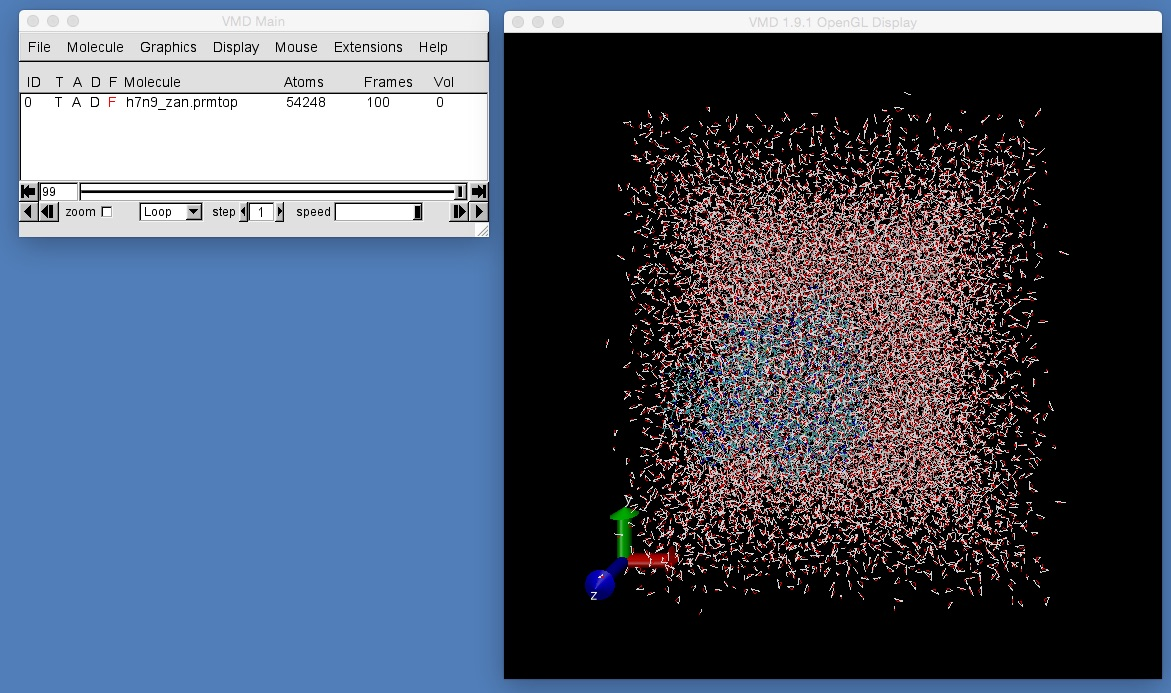
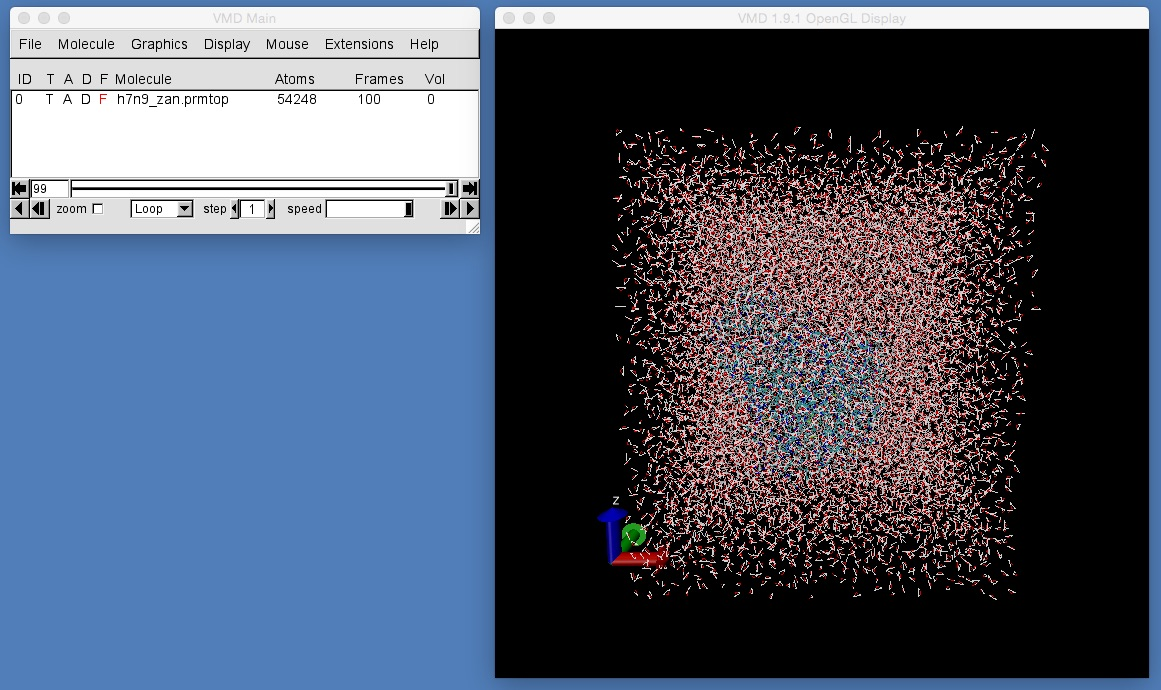
Working on pressure section and updated periodic box section to centre the protein

diff --git a/dynamics/dynamics/protein.md b/dynamics/dynamics/protein.md
@@ -32,7 +32,7 @@ You should see something like this;
 
 ![Image of water box](vmd_protein1.jpg)
 
-What you can see is zanamivir bound to neuraminidase, and all solvated in a box of water. If you rotate the view you will see that the protein is almost poking out from one side of the box, with some of its atoms appearing to be outside the box. This is not a cause for concern, but is instead an artefact of what is called "periodic boundary conditions". This box of water is actually what is known as a periodic box. This box is actually infinitely mirrored and reflected along the X, Y and Z dimensions, such that atoms on one face of the box are wrapped and placed next to the atoms on the opposite face. VMD provides tool that can help us visualise this infinite reflection of periodic boxes. Open the graphics representation window and select the "Periodic" tab (the right-most tab along the line of "Draw Style", "Selections", "Trajectory" and "Periodic"). The controls in this tab allow us to view the periodic images of the box in the X, Y and Z dimensions. Currently only the "central" box is visible. If you click on the "+X" box then VMD will draw the periodic image which is along the positive X axis. 
+What you can see is zanamivir bound to neuraminidase, and all solvated in a box of water. From this view, it would appear that while the protein is nicely solvated by water, the water molecules on the edge of the box are exposed to vacuum. This is not a cause for concern, but is instead an artefact of what is called "periodic boundary conditions". This box of water is actually what is known as a periodic box. This box is actually infinitely mirrored and reflected along the X, Y and Z dimensions, such that atoms on one face of the box are wrapped and placed next to the atoms on the opposite face. VMD provides a tool that can help us visualise this infinite reflection of periodic boxes. Open the graphics representation window and select the "Periodic" tab (the right-most tab along the line of "Draw Style", "Selections", "Trajectory" and "Periodic"). The controls in this tab allow us to view the periodic images of the box in the X, Y and Z dimensions. Currently only the "central" box is visible. If you click on the "+X" box then VMD will draw the periodic image which is along the positive X axis. 
 
 ![Image of water box](vmd_protein2.jpg)
 
@@ -53,10 +53,14 @@ PMEGridSpacing 1.0
 
 # Set the basis vectors of the periodic box. These numbers 
 # come from the last three numbers in the h7n9_zan.rst file above,
-# and give the size of the X, Y and Z dimensions of the periodic box
+# and give the size of the X, Y and Z dimensions of the periodic box.
+# Also supply the coordinates of the centre of the box (the coordinates
+# of one of the atoms of zanamivir)
 cellBasisVector1   74.8526538  0  0
 cellBasisVector2   0  84.9647470  0
 cellBasisVector3   0  0  85.7668218
+cellOrigin         29.965  31.248  53.641
+wrapAll on
 ```
 
 The first set of options turns on the use of the [particle mesh Ewald algorithm (PME)](http://en.wikipedia.org/wiki/Ewald_summation). This is the clever algorithm that allows each periodic image to interact electrostatically with the infinite number of other periodic images. All simulations that use periodic boundary conditions should turn on PME. The PMEGridSpacing option relates to the density of mesh points used in the algorithm, and should be similar to the atomic density of the system. For solvated biomolecular systems, a value of 1.0 is nearly always appropriate.
@@ -73,8 +77,12 @@ The second set of options tell namd to use periodic boundaries, and are used to 
 
 (the last three numbers are the angles between the three basis vectors. Values of 90 degrees imply that the box is cubic)
 
-While it is important that water is simulated, it can get in the way when trying to look at the simulation in VMD. Use what you learned in the first part of this workshop to create representations of the protein and of zanamivir (resname ZAN). Once you have created these representations, play the movie of the trajectory and see what you can see. Can you see the multiple copies of the protein and zanamivir?
+The next line (containing "cellOrigin") tells namd where we would like the centre of the box to be. This is a completely arbitrary choice and has no affect on the resulting simulation. It just affects how the box is seen in VMD, and the best choice is to use the coordinates of one of the atoms that are of interest, e.g. in this case the coordinates of one of the atoms from zanamivir was chosen.
+
+The final line ("wrapAll on") tells namd to wrap molecules from one side of the box to the other. This means that if a water molecule moves to leave the box from one side, it is copied over to reenter the box from the opposite side. Again, this doesn't affect the simulation, but rather just how the box is seen in VMD.
+
+While it is important that water is simulated, it can get in the way when trying to look at the simulation in VMD. Use what you learned in the first part of this workshop to create representations of the protein and of zanamivir (resname ZAN). Once you have created these representations, play the movie of the trajectory and see what you can see. Can you see the multiple copies of the protein and zanamivir? Do you see that zanamivir is at the centre of the box?
 
 ![Image of water box](vmd_protein4.jpg)
 
-# [Previous](shake.md) [Up](README.md) [Next](.md)
+# [Previous](shake.md) [Up](README.md) [Next](pressure.md)

diff --git a/dynamics/dynamics/pressure.md b/dynamics/dynamics/pressure.md
@@ -1,0 +1,59 @@
+# Part 2: Molecular Dynamics
+## Under Pressure
+
+In the last section you learned how to use periodic boundary conditions to simulate your biomolecular system in an infinite number of images of a periodic box of water. While great, the use of periodic boundary conditions on their own has one drawback - the volume of each periodic box is a constant. This means that the pressure of the system is undefined. This can be important depending on the type of ensemble that we wish to sample during our molecular dynamics simulation.
+
+There are three main ensembles that are important for biomolecular simulations;
+
+* NVE or microcanonical ensemble : The number of atoms, volume of the box and the total energy of the molecules is kept constant
+* NVT or canonical ensemble : The number of atoms, volume of the box and the temperature of the simulation is kept constant
+* NPT or isothermal-isobaric ensemble : The number of atoms, and the pressure and temperature of the simulation is kept constant
+
+The closest ensemble to 'reality' is NPT, where the simulation runs at constant temperature and pressure. In a simulation we have a choice of which ensemble to use. If we want to control temperature, then we have to use a thermostat. This is specified and controlled in 'mdconfig' in the lines that read;
+
+```
+# Options used to set the temperature of the simulation
+# to 300 K
+temperature 300
+langevin on
+langevinDamping 5
+langevinTemp 300
+```
+
+There are many different thermostat algorithms available. The best thermostat to use in namd is the "Langevin" thermostat. This randomly adjusts the velocity of all of the atoms to achieve the specified temperature (in this case, 300 kelvin). 
+
+If we want to control the pressure, we need to use a barostat. Again, there are many different barostat algorithms available, with the choice of barostat normally coupled with the choice of thermostat. The best barostat to use for biomolecular simulations is namd is the "Langevin" barostat. This randomly changes the volume of the periodic box, and can be switched on by adding the following lines to 'mdconfig'
+
+```
+# Options used to set the pressure of the simulation
+langevinPiston on
+langevinPistonTarget 1.01325
+langevinPistonPeriod 100
+langevinPistonDecay 50
+langevinPistonTemp 300
+useFlexibleCell yes
+useConstantArea no
+langevinHydrogen off
+useGroupPressure yes
+xstFreq 1000
+```
+
+The important lines are "langevinPiston" which turns on or off the use of a Langevin barostat, and "langevinPistonTarget" which specifies the desired pressure (in atmospheres). The option "langevinPistonTemp" sets the 'temperature' of the random noise used by the algorithm, and should be set to the same temperature as the simulation. Another important option is "xstFreq", which specifies the frequency of writing out a restart file that contains the dimensions of the periodic box. If you are interested in the meaning of the other options, please [take a look here](http://www.ks.uiuc.edu/Training/Tutorials/namd/namd-tutorial-unix-html/node9.html).
+
+Use a text editor (e.g. nano) to add a Langevin barostat to 'mdconfig'. Once you have made the changes, re-run the dynamics simulation by typing;
+
+```
+$NAMD/namd2 ++ppn 4 mdconfig
+```
+
+Once the simulation has finished, visualise the trajectory in VMD by typing
+
+```
+vmd h7n9_zan.prmtop output.dcd
+```
+
+and then turn on one layer of periodic images. Make sure that you can still see the water molecules and then play the movie. What do you see?
+
+
+
+# [Previous](protein.md) [Up](README.md) [Next](simulation.md)
